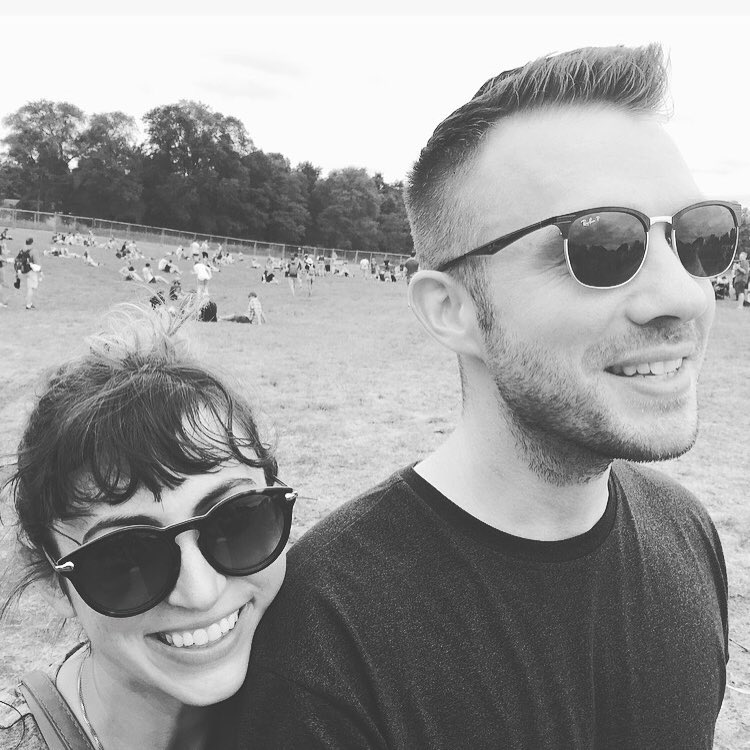
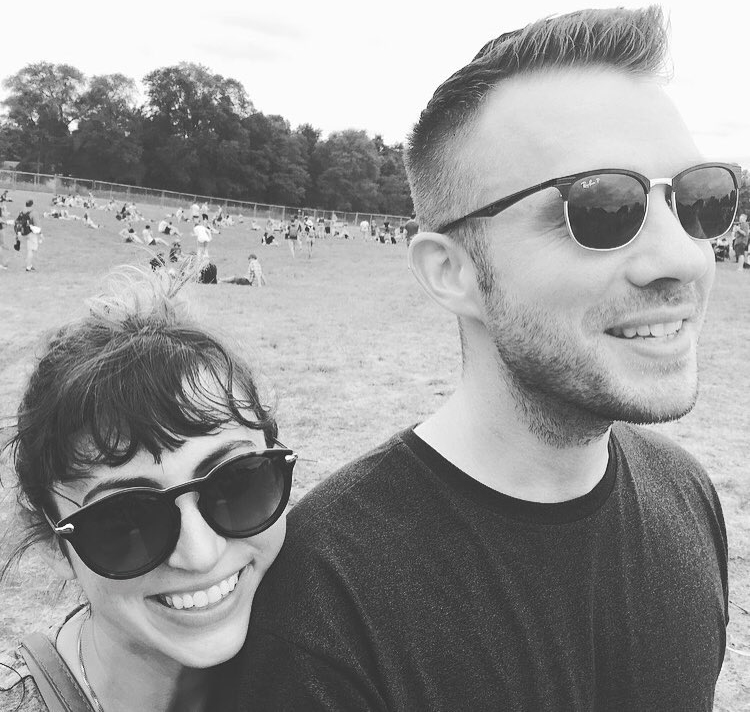
reg

diff --git a/index.html b/index.html
@@ -94,7 +94,7 @@
             <div class="container">
                 <div class="row">
                     <div class="col-lg-12 text-center">
-                        <h2 class="margin-top-0 text-primary">VENUE</h2>
+                        <h2 class="margin-top-0 text-primary wide-space">VENUE</h2>
                         <hr class="primary">
                     </div>
                 </div>
@@ -103,7 +103,6 @@
                 <div class="row">
                     <div class="col-lg-4 col-md-4 text-center ">
                         <div class="feature">
-                          
                         </div>
                     </div>
                     <div class="col-lg-4 col-md-4 text-center fadeIn">
@@ -115,7 +114,7 @@
                     <div class="col-lg-4 col-md-4 text-center">
                         <div class="feature">
                             <!-- <i class="icon-lg ion-ios-star-outline wow fadeIn" data-wow-delay=".3s"></i> -->
-                           <!--  <h3>Consistent</h3>
+                            <!--  <h3>Consistent</h3>
                             <p class="text-muted">A mature, well-tested, stable codebase</p> -->
                         </div>
                     </div>
@@ -246,46 +245,57 @@
                         </div>
                     </div>
                     <hr>
-                    <!-- <div class="media wow fadeInRight">
-                        <h3>Unique</h3>
-                        <div class="media-body media-middle">
-                            <p>Because you don't want your Bootstrap site, to look like a Bootstrap site.</p>
-                        </div>
-                        <div class="media-right">
-                            <i class="icon-lg ion-ios-snowy"></i>
-                        </div>
-                    </div>
-                    <hr>
-                    <div class="media wow fadeIn">
-                        <h3>Popular</h3>
-                        <div class="media-left">
-                            <i class="icon-lg ion-ios-heart-outline"></i>
-                        </div>
-                        <div class="media-body media-middle">
-                            <p>There's good reason why Bootstrap is the most used frontend framework in the world.</p>
-                        </div>
-                    </div>
-                    <hr>
-                    <div class="media wow fadeInRight">
-                        <h3>Tested</h3>
-                        <div class="media-body media-middle">
-                            <p>Bootstrap is matured and well-tested. It's a stable codebase that provides consistency.</p>
-                        </div>
-                        <div class="media-right">
-                            <i class="icon-lg ion-ios-flask-outline"></i>
-                        </div>
-                    </div> -->
                 </div>
             </div>
         </section>
+        <aside class="bg-darker">
+            <div class="container text-center">
+                <div class="row">
+                    <div class="col-md-6 col-md-offset-3 fadeInLeft">
+                        <!-- <div class="row text-center"> -->
+                        <h2 class="text-center text-primary wide-space">REGISTRY</h2>
+                        <br/>
+                        <br/>
+                        <div class="row fadeIn">
+                            <div class="col-md-4">
+                                <a href="https://www.westelm.com/registry/bxrc7ljkgw/registry-list.html" target="blank_"><img src="assets/westelmlogo.png" width="100%"></a>
+                            </div>
+                            <div class="col-md-4">
+                                <a href="https://www.amazon.com/wedding/registry-suggestion/categories/small-apps?ref_=hit_wr_rs_home" target="blank_"><img src="assets/amazonlogo.png" width="100%"></a></div>
+                            <div class="col-md-4">
+                                <a href="https://www.macys.com/wgl/registry/guest/6661627" target="blank_"><img src="assets/macyslogo.png" width="100%"></a>
+                            </div>
+                        </div>
+                        <br/>
+                        <div class="row">
+                            <div class="col-md-6">
+                                <a href="https://www.anthropologie.com/registry/listing?registryId=YJG2ZWE3OTU4" target="blank_"><img src="assets/anthrologo.png" width="100%"></a>
+                            </div>
+                            <div class="col-md-6">
+                                <a href="https://www.williams-sonoma.com/registry/kxkqzg8wph/registry-list.html" target="blank_"><img src="assets/williamslogo.png" width="100%"></a>
+                            </div>
+                        </div>
+                    </div>
+                </div>
+        </aside>
         <aside class="bg-dark">
             <div class="container text-center">
                 <div class="row">
-                    <div class="col-lg-6 col-lg-offset-3 fadeInRight">
+                    <div class="col-md-5 col-md-offset-1 fadeInLeft">
                         <!-- <div class="row text-center"> -->
-                        <img src="assets/rachelnoah.jpg" class="img-rounded fadeIn" width="80%">
+                        <img src="assets/rachelnoah2.jpg" class="img-rounded fadeIn" width="80%">
                         <!-- <h6 class="wide-space text-center">BOOTSTRAP IS BASED ON THESE STANDARDS</h6> -->
                         <!-- </div> -->
+                    </div>
+                    <div class="col-md-5">
+                        <h2 class="text-center text-primary wide-space">CONTACT</h2>
+                        <br/>
+                        <br/>
+                        <p>Rachel </p>
+                        <a href="#"></a>
+                        <p>Noah</p>
+                        <a href="#"></a>
+                        <p>Address</p>
                     </div>
                 </div>
             </div>
@@ -329,13 +339,13 @@
             </div>
         </div>
     </div> -->
-    </div>
-    <!--scripts loaded here -->
-    <script src="./js/jquery.min.js"></script>
-    <script src="./js/bootstrap.min.js"></script>
-    <script src="./js/jquery.easing.min.js"></script>
-    <script src="./js/wow.js"></script>
-    <script src="./js/scripts.js"></script>
+        </div>
+        <!--scripts loaded here -->
+        <script src="./js/jquery.min.js"></script>
+        <script src="./js/bootstrap.min.js"></script>
+        <script src="./js/jquery.easing.min.js"></script>
+        <script src="./js/wow.js"></script>
+        <script src="./js/scripts.js"></script>
 </body>
 
 </html>

diff --git a/css/styles.css b/css/styles.css
@@ -71,8 +71,14 @@ p {
 
 .bg-dark {
     color: #000;
-    background-color: #F5F5F5;
+    background-color: #fff;
 }
+
+.bg-darker {
+    color: #fff;
+    background-color: #C0C0C0;
+}
+
 
 .cursive {
     font-family: 'Dancing Script', cursive;
